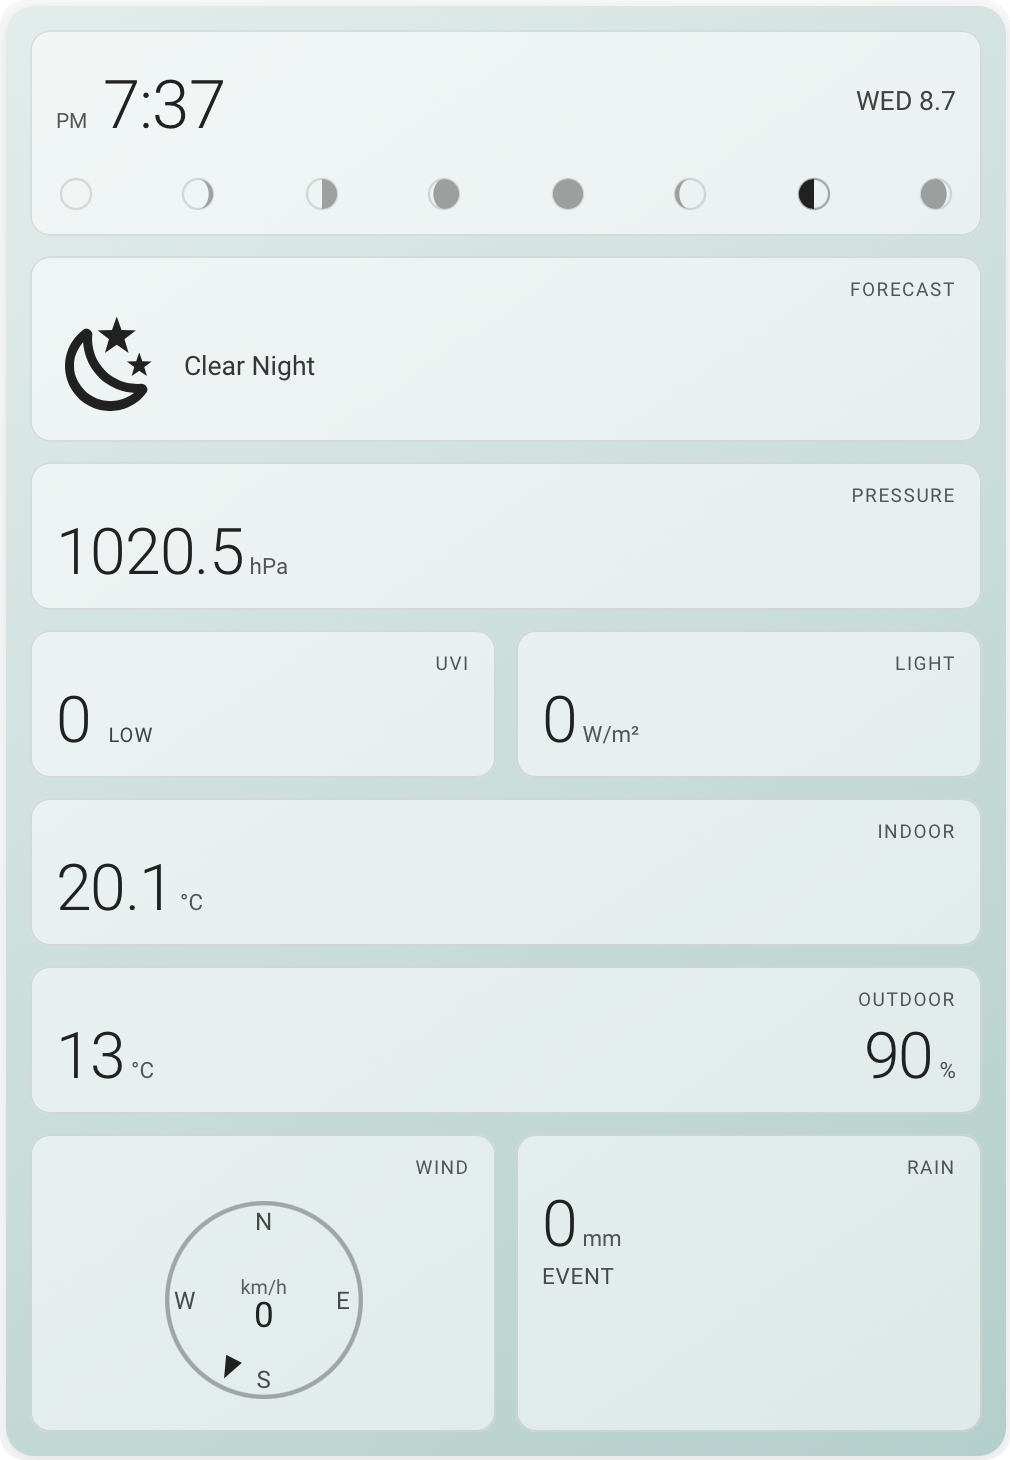
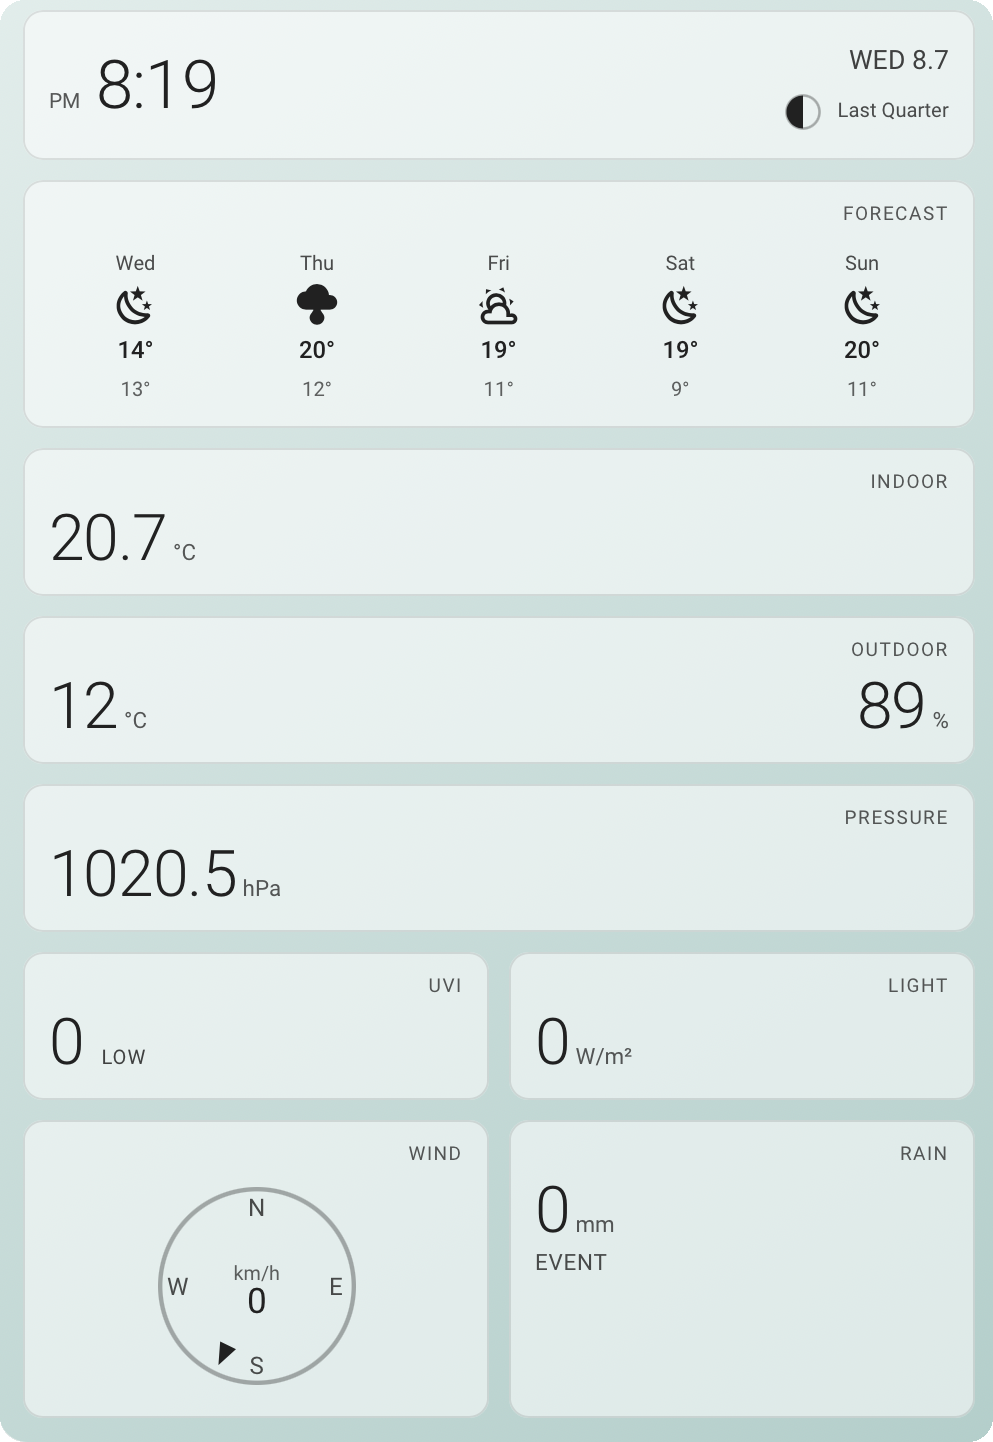
README: refreshed style trio for v1.1.1 layout (5-day forecast, single moon phase, reordered panels)

diff --git a/README.md b/README.md
@@ -1,6 +1,6 @@
 # PRO-V Weather Card
 
-A Lovelace card styled after PRO-V / Ecowitt weather-station consoles: clock and date, moon phase strip, forecast, pressure, UV index, solar radiation, indoor and outdoor temperature/humidity, a wind compass, and rain — laid out like the display on your wall.
+A Lovelace card styled after PRO-V / Ecowitt weather-station consoles: clock and date, current moon phase, 5-day forecast, pressure, UV index, solar radiation, indoor and outdoor temperature/humidity, a wind compass, and rain — laid out like the display on your wall.
 
 <p align="center">
   <img src="images/style-default.png" width="32%" alt="Default - follows your HA theme">
@@ -13,7 +13,7 @@ A Lovelace card styled after PRO-V / Ecowitt weather-station consoles: clock and
 
 ## Features
 
-- **Console layout** — clock with day/date, computed moon-phase strip (no entity needed), forecast glyph from any weather entity, pressure, UVI with severity word (LOW → EXTREME), solar W/m², indoor and outdoor temp + humidity, wind compass with live bearing pointer and speed, rain with a configurable label (Event / Rate / Daily — whatever sensor you feed it).
+- **Console layout** — clock with day/date, computed current moon phase with name (no entity needed), 5-day forecast strip (day, condition, high/low) fed live by HA's forecast subscription from any weather entity, pressure, UVI with severity word (LOW → EXTREME), solar W/m², indoor and outdoor temp + humidity, wind compass with live bearing pointer and speed, rain with a configurable label (Event / Rate / Daily — whatever sensor you feed it).
 - **Trend arrows** — indoor/outdoor and pressure readings grow rise/fall arrows once the card has watched them for a while (20-minute windows, session-based).
 - **Fully GUI-configured** — style and every data slot in the visual editor; sensible auto-discovery for Ecowitt entity naming in the card picker preview.
 - **Three style modes** (same convention as the [AirTouch Card](https://github.com/mycrouch/airtouch-card) and [Ecovacs Vacuum Card](https://github.com/mycrouch/ecovacs-vacuum-card)): **Default** (follows your theme), **Theme** (apply any installed theme — e.g. [Gradient Themes](https://github.com/mycrouch/gradient-themes) — to just this card), or **Manual** gradient colours.